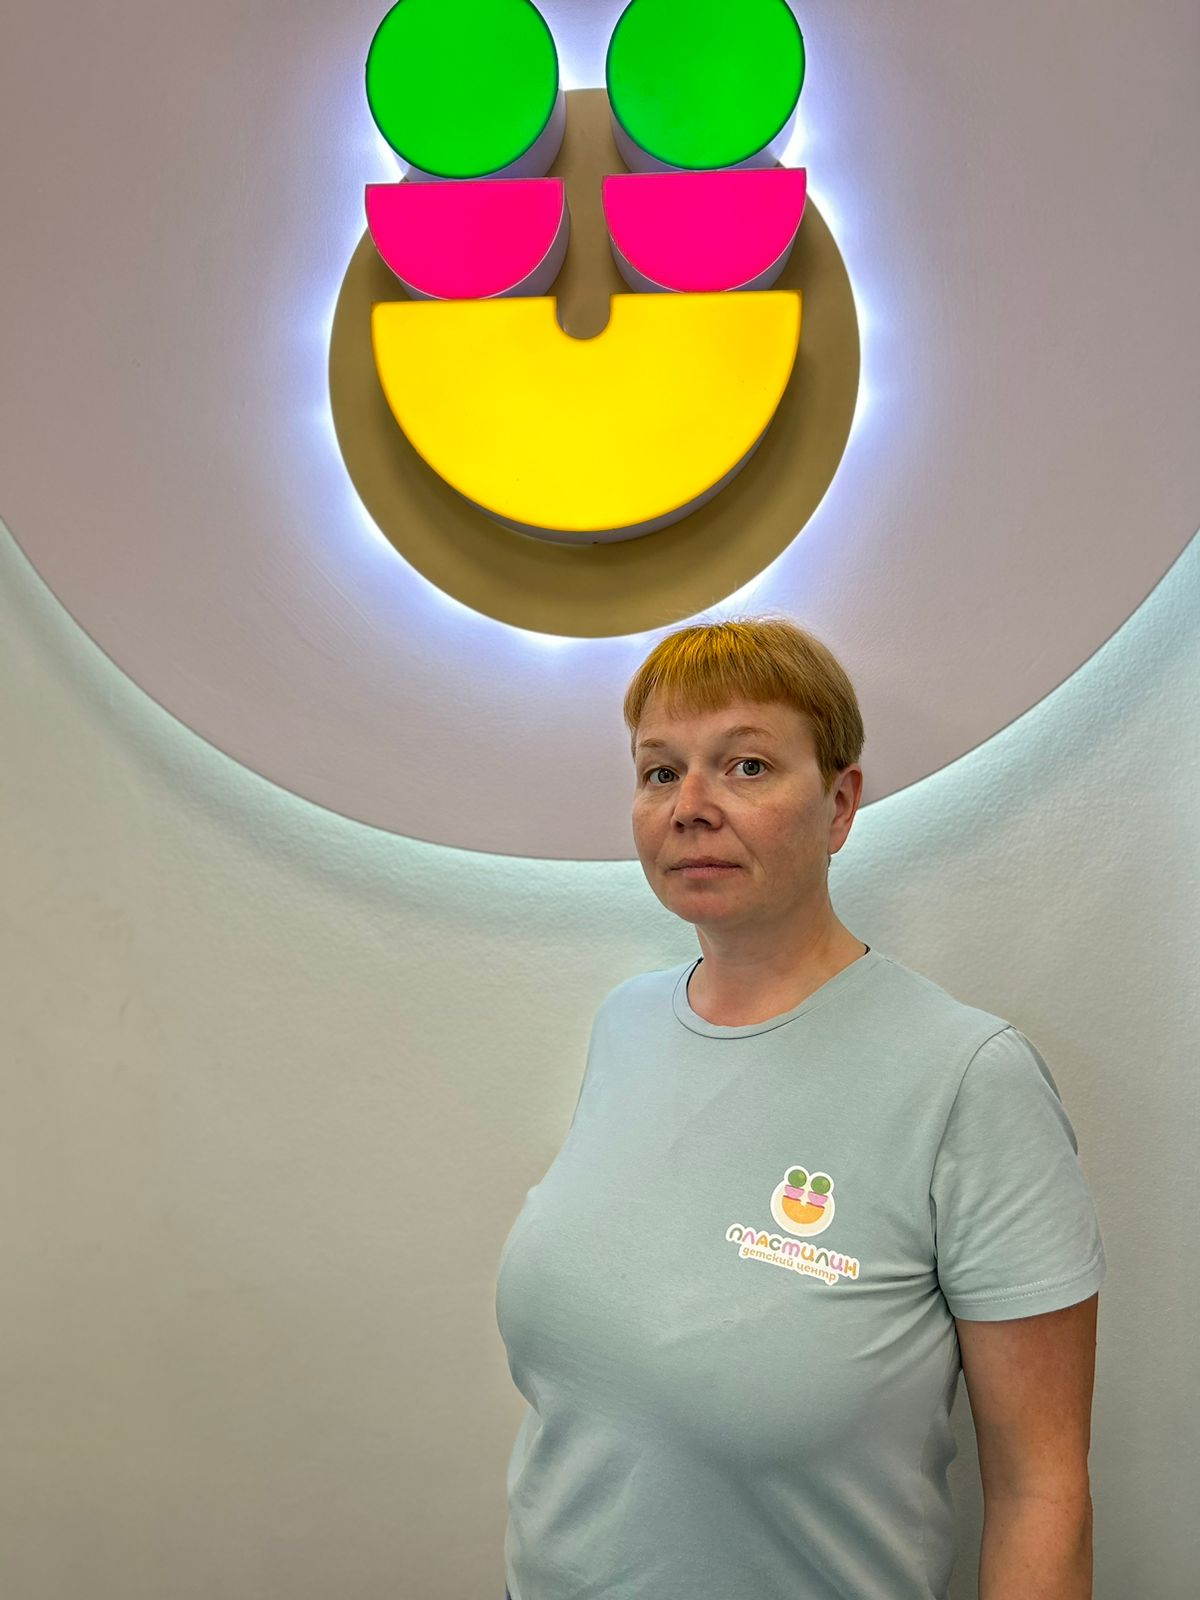
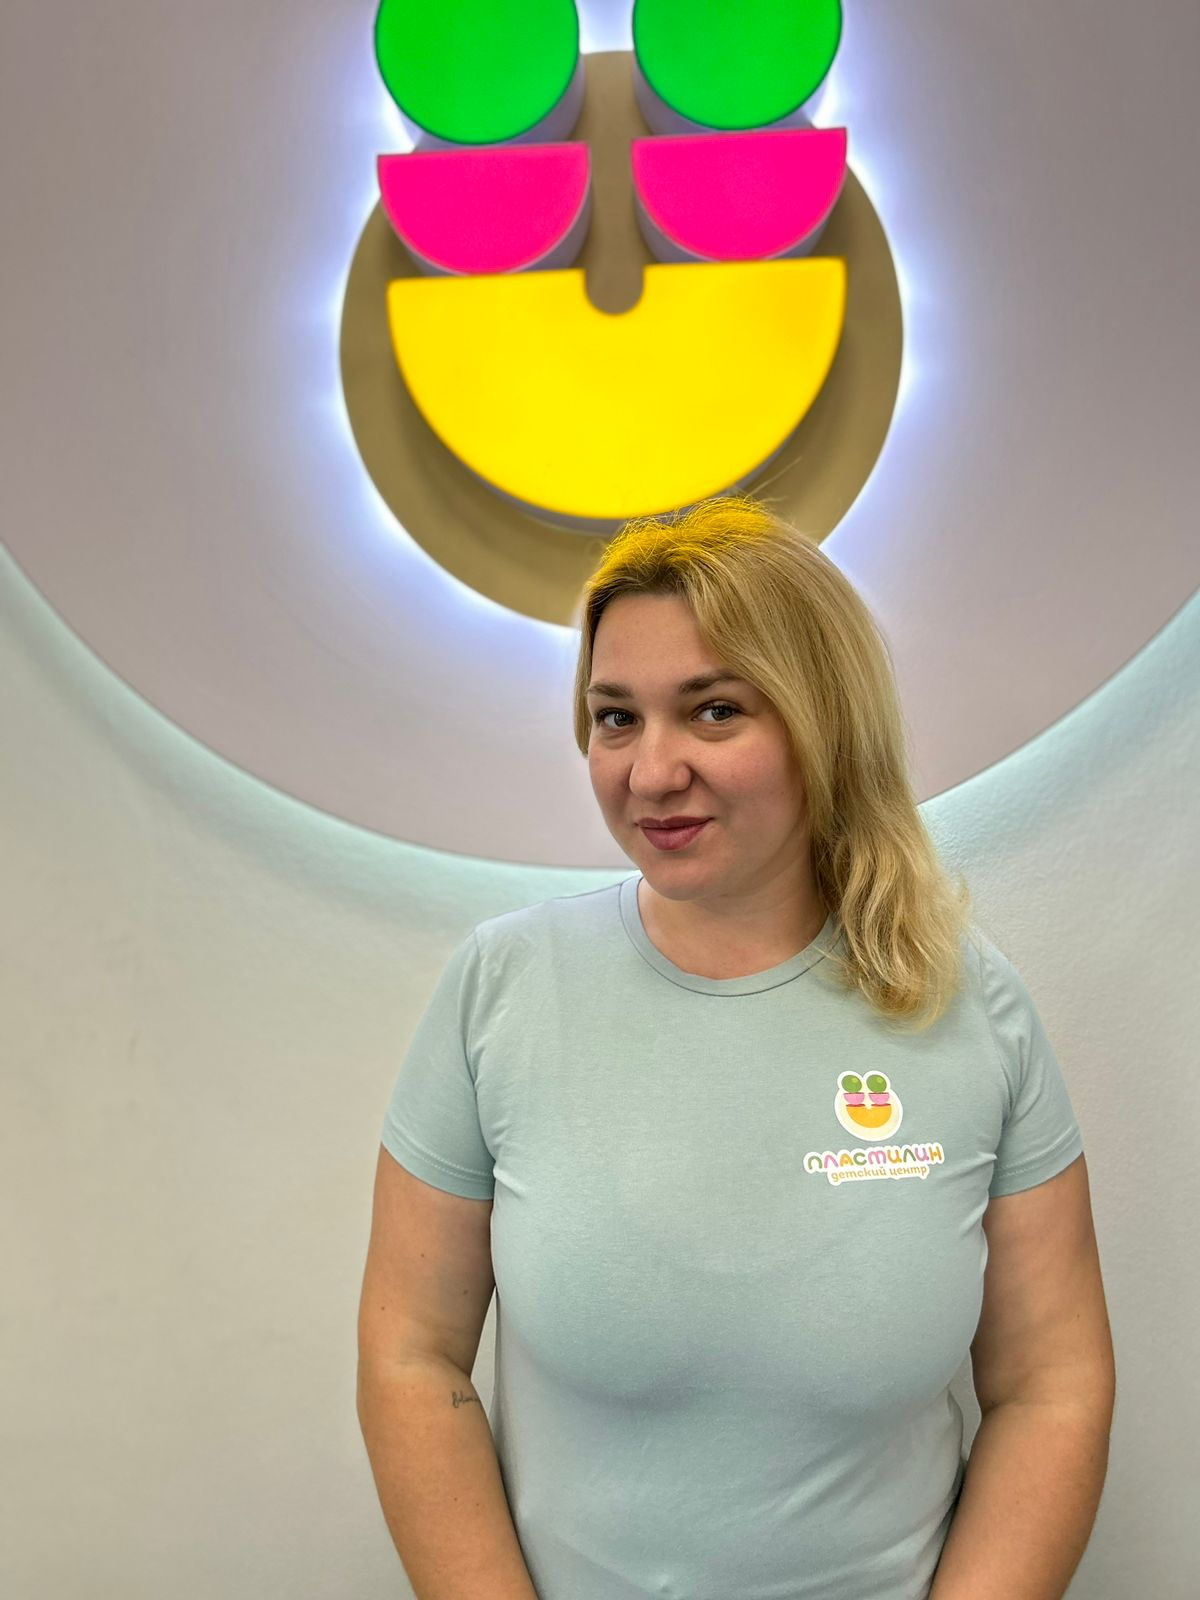
Update

diff --git a/data.js b/data.js
@@ -55,13 +55,13 @@ export const teachers = [
         experience: '4 года',
         description: 'Дети не зря говорят, что они – цветы жизни. Они, как цветок, который, если правильно ухаживать, вырастет красивым и будет всегда радовать. Поэтому я считаю каждого ребёнка нужно раскрывать, любить и растить как своего.',
         quote: 'Вся радость в жизни умещается в улыбке ребёнка.',
-        photo: '/people/Olga.jpeg'
+        photo: '/people/Ekaterina.jpeg'
     },
     {
-        name: "Светлана",
+        name: "Ольга",
         direction: 'Воспитатель - педагог',
         experience: '4 года',
-        photo: '/people/Svetlana.jpeg'
+        photo: '/people/Olga.jpeg'
     },
     {
         name: "Ольга",
@@ -155,14 +155,16 @@ export const groupsData = [
         age: '1,2 - 2,5',
         yearWord: 'года',
         description: ['Количество деток в группе - до 7 человек.', 'Количество воспитателей на группу - 2 + помощник'],
-        prices: ['5 раз в неделю: 21.500 р/месяц', 'разовое посещение: 1.700 р/день', 'группа входного дня: 1.700 р / день', 'первое пробное посещение - бесплатно']
+        prices: ['5 раз в неделю: 21.500 р/месяц', 'разовое посещение: 1.700 р/день', 'группа входного дня: 1.700 р / день', 'первое пробное посещение - бесплатно'],
+        schedule: 'small'
     },
     {
         title: '2⃣ Младшая группа',
         age: '2,5 - 4',
         yearWord: 'года',
         description: ['Количество деток в группе - до 7 человек.', 'Количество воспитателей на группу - 2 + помощник'],
-        prices: ['5 раз в неделю: 21.500 р/месяц', 'разовое посещение: 1.700 р/день', 'группа входного дня: 1.700 р / день', 'первое пробное посещение - бесплатно']
+        prices: ['5 раз в неделю: 21.500 р/месяц', 'разовое посещение: 1.700 р/день', 'группа входного дня: 1.700 р / день', 'первое пробное посещение - бесплатно'],
+        schedule: 'small'
     },
     // {
     //     title: '3⃣ Средняя группа',
@@ -174,7 +176,8 @@ export const groupsData = [
         age: '4 - 6',
         yearWord: 'лет',
         description: ['Количество деток в группе - до 12 человек.', 'Количество воспитателей на группу - 1 + помощник'],
-        prices: ['5 раз в неделю: 19.500 р / месяц', 'разовое посещение: 1.500 р / день', 'группа входного дня: 1.500 р / день', 'первое пробное посещение - бесплатно']
+        prices: ['5 раз в неделю: 19.500 р / месяц', 'разовое посещение: 1.500 р / день', 'группа входного дня: 1.500 р / день', 'первое пробное посещение - бесплатно'],
+        schedule: 'big'
     },
     {
         title: '4⃣ Подготовительная группа',

diff --git a/components/pages/schedule/Schedule.js b/components/pages/schedule/Schedule.js
@@ -135,7 +135,7 @@ const Schedule = () => {
                                 >
                                     <Box
                                         sx={{
-                                            bgcolor: 'white',
+                                            // bgcolor: 'white',
                                             width: '80%',
                                             display: 'grid',
                                             gridTemplateColumns: ['1fr', '1fr', '1fr', '1fr 1fr', '1fr 1fr 1fr'],
@@ -146,8 +146,8 @@ const Schedule = () => {
                                             gap: '10px',
                                             p: 2,
                                             pt:3,
-                                            boxShadow: '0 0px 5px 2px rgba(0, 0, 0, 0.1)',
-                                            borderRadius: '20px',
+                                            // boxShadow: '0 0px 5px 2px rgba(0, 0, 0, 0.1)',
+                                            // borderRadius: '20px',
                                             maxWidth: '1000px',
                                             my: 1
                                         }}
@@ -155,7 +155,7 @@ const Schedule = () => {
                                         {groups[validGroup].map((lesson, lessonIndex) => (
                                             <Box key={lessonIndex} sx={{ width: '100%' }}>
                                                 <Item props={lesson} index={key} lessonIndex={lessonIndex} />
-                                                {lessonIndex === groups[validGroup].length - 1 ? null :
+                                                {/* {lessonIndex === groups[validGroup].length - 1 ? null :
                                                     <Divider
                                                         sx={{
                                                             my: 1,
@@ -163,7 +163,7 @@ const Schedule = () => {
                                                             display: ['block', 'block', 'block', (lessonIndex + 1) % 9 === 0 ? 'none' : 'block', (lessonIndex + 1) % 6 === 0 ? 'none' : 'block'],
                                                         }}
                                                     />
-                                                }
+                                                } */}
                                             </Box>
                                         ))}
                                     </Box>

diff --git a/app/docs/page.js b/app/docs/page.js
@@ -1,0 +1,58 @@
+import React from 'react'
+import { Box, Container, List, ListItem, ListItemText, Typography } from '@mui/material'
+import Title from '@/components/UI/text/title'
+import Template from '@/components/pages/template'
+
+export const metadata = {
+  title: 'Пластилин -  документы для зачисления',
+  description: 'Детский центр в г. Раменское, Свободы 6А. Группы от 1 года и 2 месяцев. Развитие софт скилс. Опытные педагоги, которые знают, как работать с детьми нового поколения.',
+}
+
+const subscriptionDocuments = [
+  '1. Договор',
+  '2. Анкета',
+  '3. Согласие фото видео',
+  '4. Согласие на обработку данных',
+  '5. Справка от педиатра о том, что ребенок может посещать',
+  '6. Справка на энтеробиоз',
+  '7. Копии паспорта родителей и законных представителей',
+  '8. Копия свидетельства о рождении',
+  '9. Аллергии',
+];
+
+const singleVisitDocuments = [
+  '1. Мини анкета',
+  '2. Копия паспорта родителей или законных представителей',
+  '3. Согласие на фото/видео',
+  '4. Согласие на обработку данных',
+  '5. Аллергии',
+];
+
+export default function Page() {
+  return (
+    <Template>
+      <Container sx={{ display: 'flex', flexDirection: 'column', gap: 1, my: 20 }}>
+        <Title>
+          Документы при покупке абонемента
+        </Title>
+        <ul style={{ listStyle: 'none', marginBottom: '20px' }}>
+          {subscriptionDocuments.map((doc, index) => (
+            <li key={index} style={{ marginBottom: '8px' }}>
+              <Typography variant='h6'>{doc}</Typography>
+            </li>
+          ))}
+        </ul>
+        <Title>
+          Документы для разовиков
+        </Title>
+        <ul style={{ listStyle: 'none' }}>
+          {singleVisitDocuments.map((doc, index) => (
+            <li key={index} style={{ marginBottom: '8px' }}>
+              <Typography variant='h6'>{doc}</Typography>
+            </li>
+          ))}
+        </ul>
+      </Container>
+    </Template>
+  )
+}

diff --git a/components/pages/groups/group.js b/components/pages/groups/group.js
@@ -2,9 +2,10 @@ import { Box, Typography, Collapse, IconButton, List, ListItemText, Button } fro
 import React, { useState } from 'react'
 import ExpandMoreIcon from '@mui/icons-material/ExpandMore';
 import ExpandLessIcon from '@mui/icons-material/ExpandLess';
+import Link from 'next/link';
 
 const Group = ({ props }) => {
-    const { title, description, prices, age, yearWord } = props;
+    const { title, description, prices, age, yearWord, schedule } = props;
     const [expanded, setExpanded] = useState(false);
 
     const handleExpandClick = () => {
@@ -58,9 +59,11 @@ const Group = ({ props }) => {
                         <Button>
                             Подробнее
                         </Button>
-                        <Button variant='contained'>
-                            Рапсисание
-                        </Button>
+                        <Link href={`/schedule?group=${schedule}`}>
+                            <Button variant='contained' onClick={(e) => e.stopPropagation()}>
+                                Рапсисание
+                            </Button>
+                        </Link>
                     </Box>
                     <IconButton
                         onClick={handleExpandClick}

diff --git a/components/pages/index/start/bigScreen.js b/components/pages/index/start/bigScreen.js
@@ -109,7 +109,7 @@ const BigScreen = () => {
                             <b>Идет набор</b> в группы
                         </Typography>
                         <Typography data-aos='fade-up' variant='h6' textAlign='center' sx={{ mt: 1, width: '90%', mx: 'auto' }}>
-                            5 возрастных групп от <b>1.2 года</b>
+                            4 возрастные группы от <b>1.2 года</b>
                         </Typography>
                     </Box>
                     <Box sx={{ display: 'flex', gap: 2 }}>

diff --git a/components/pages/index/start/smallScreen.js b/components/pages/index/start/smallScreen.js
@@ -60,7 +60,7 @@ const SmallScreen = () => {
                         width: '90%',
                     }}
                 >
-                    5 возрастных групп от <b>1.2 года</b>
+                    4 возрастные группы от <b>1.2 года</b>
                 </Typography>
             </Box>
             <Box sx={{ display: 'flex', gap: 2 }}>

diff --git a/components/pages/schedule/Item.js b/components/pages/schedule/Item.js
@@ -7,6 +7,10 @@ const Item = ({ props, index, lessonIndex }) => {
         <Box
             bgcolor='white'
             sx={{
+                boxShadow: '0 0px 3px 1px rgba(0, 0, 0, 0.1)',
+                borderRadius: '20px',
+                p:2,
+                pb:1,
                 minWidth: '170px',
                 display: 'flex',
                 flexDirection: 'column',

diff --git a/app/groups/page.js b/app/groups/page.js
@@ -4,7 +4,7 @@ import { additionalGroupsData, groupsData } from "@/data"
 
 export const metadata = {
   title: 'Пластилин - группы',
-  description: '5 возрастных групп от 1 года и 2 месяцев.',
+  description: '4 возрастные группы от 1 года и 2 месяцев.',
 }
 
 export default function Page() {
